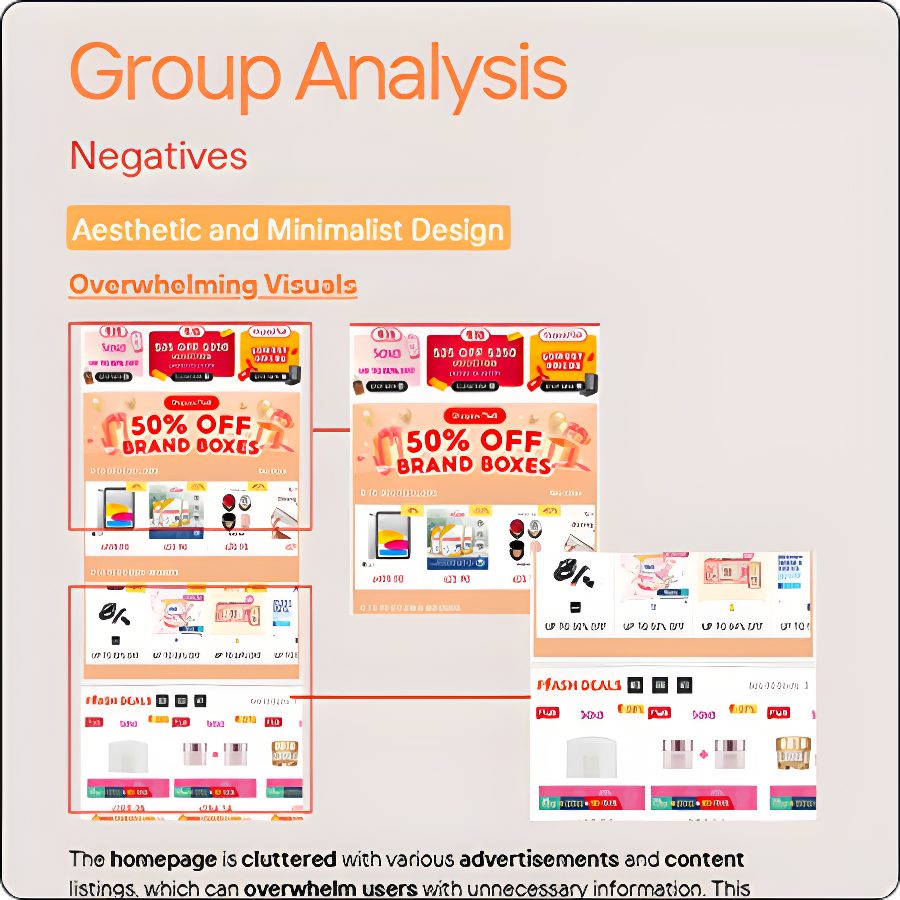
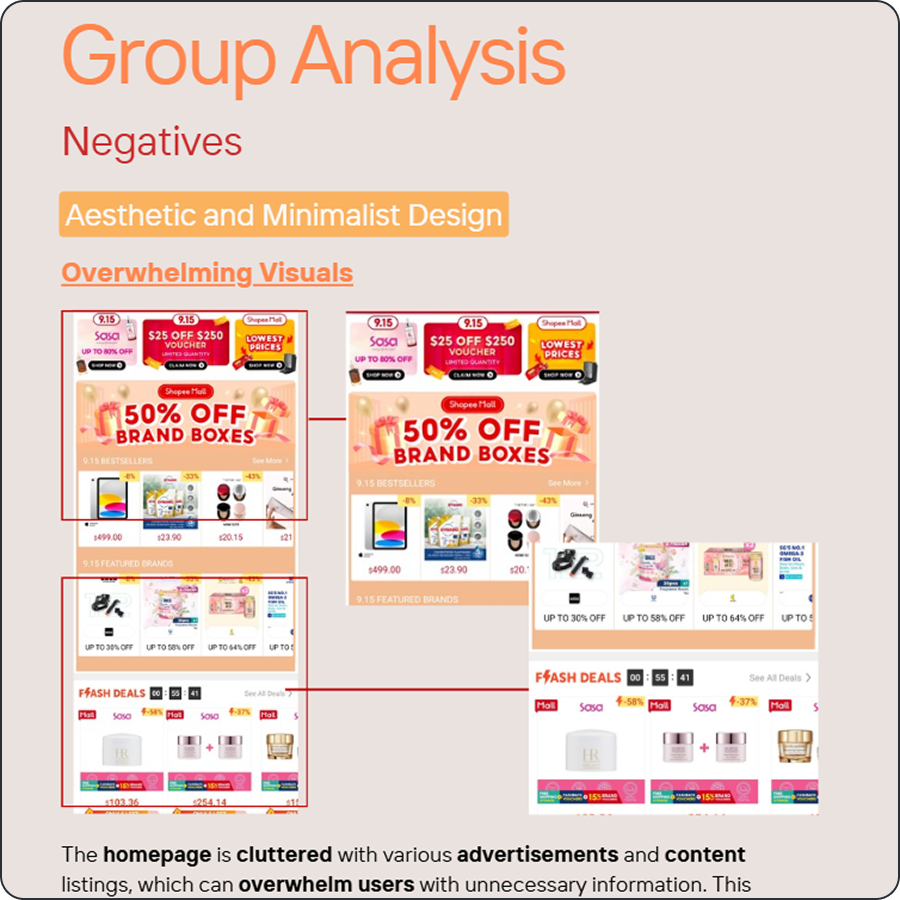
fixed links and image quality

diff --git a/index.html b/index.html
@@ -179,7 +179,7 @@
               <span class="casestudy-tag-divider">·</span>
               <span class="casestudy-tag">Product</span>
             </div>
-            <a href="foundit-case-study.html" class="casestudy-link"
+            <a href="work/foundit.html" class="casestudy-link"
               >View Case Study &rarr;</a
             >
           </div>
@@ -213,7 +213,7 @@
               <span class="casestudy-tag-divider">·</span>
               <span class="casestudy-tag">B2C</span>
             </div>
-            <a href="shopee-case-study.html" class="casestudy-link"
+            <a href="work/Shopee-Revamp.html" class="casestudy-link"
               >View Case Study &rarr;</a
             >
           </div>
